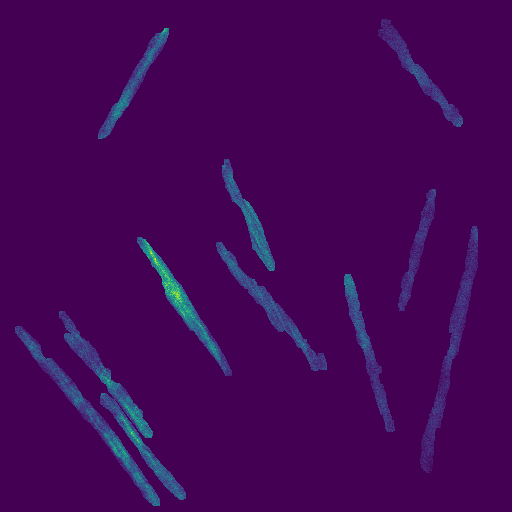
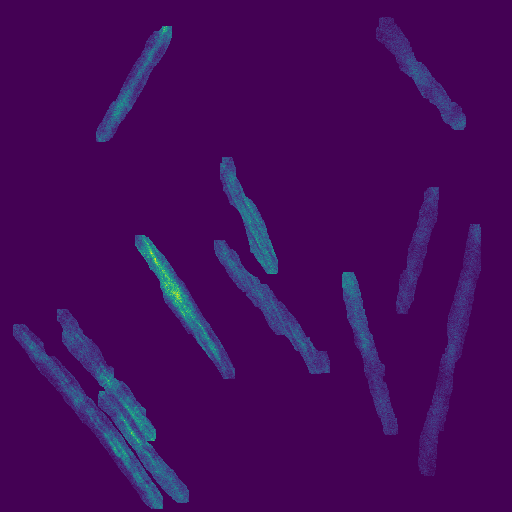
s
s

diff --git a/main.py b/main.py
@@ -371,7 +371,7 @@ for y in range(0,10,1):
 cv2.destroyAllWindows()
 
 
-kernel = np.ones((5, 5), 'uint8')
+kernel = np.ones((10, 10), 'uint8')
 #dst8
 dilate_img = cv2.dilate(dst8, kernel, iterations=1)
 cv2.imshow('Dilated Image', dilate_img)
